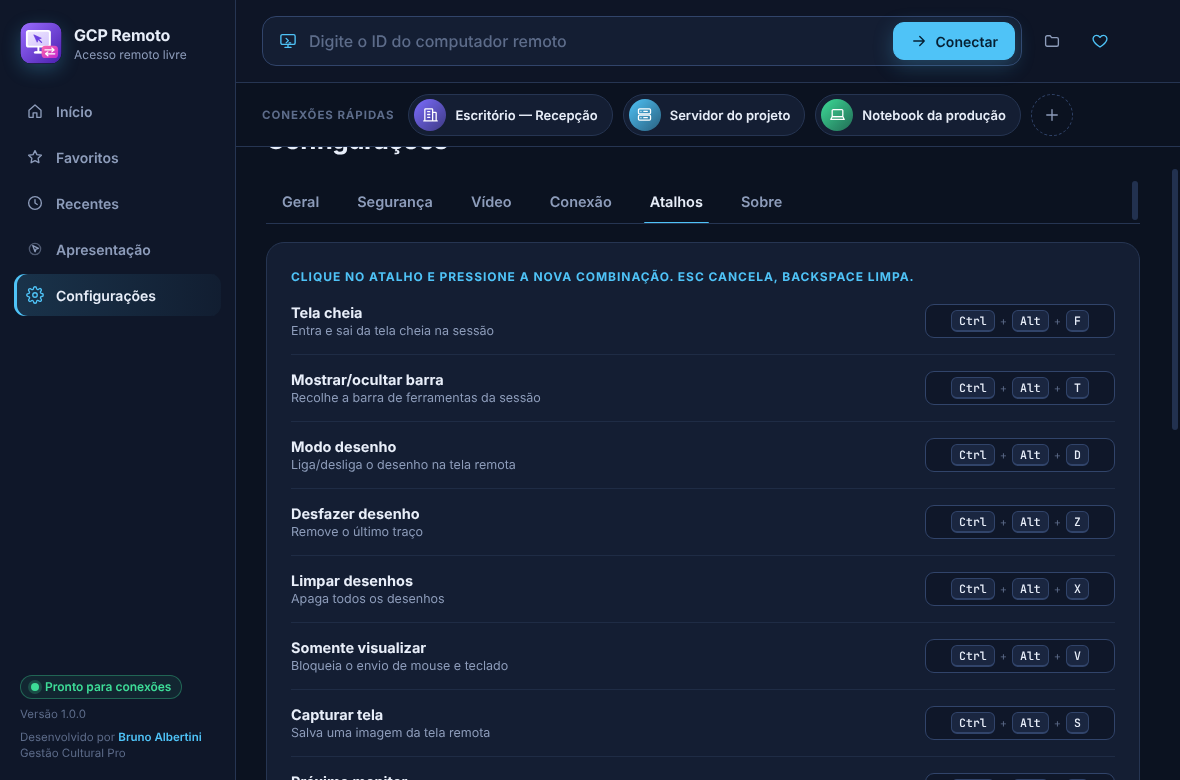
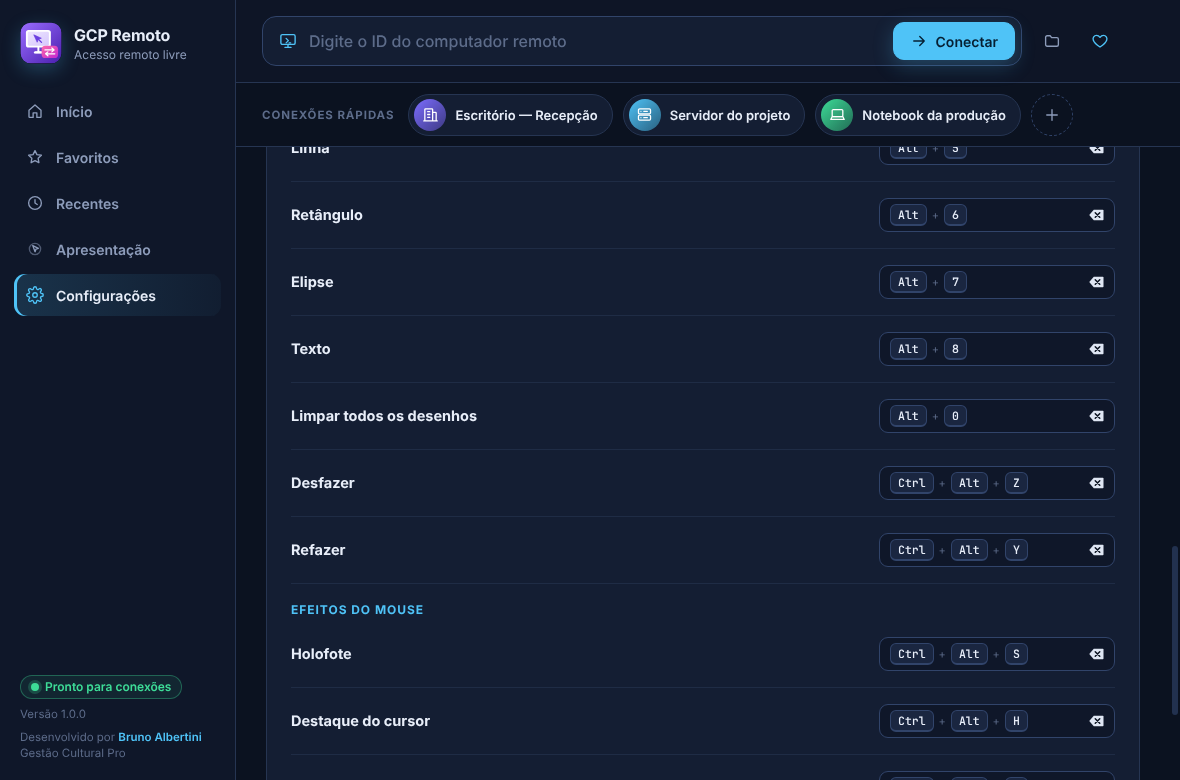
Atalhos: migrar padrões antigos para Alt+número e efeitos no padrão GCP

diff --git a/src/main/store.js b/src/main/store.js
@@ -112,7 +112,20 @@ class Store {
     if (!this.data.deviceId) this.data.deviceId = Store.newDeviceId();
     if (!this.data.security.permanentSalt) this.data.security.permanentSalt = crypto.randomBytes(16).toString('hex');
     if (!this.data.displayName) this.data.displayName = require('os').hostname();
+    this.migrateShortcuts();
     this.save();
+  }
+
+  // Versão 2 dos atalhos: ferramentas em Alt+número e efeitos no padrão GCP.
+  // Só troca atalhos que ainda estão no padrão antigo; os personalizados são mantidos.
+  migrateShortcuts() {
+    if (this.data.shortcutsVersion >= 2) return;
+    const OLD = { clearDrawings: 'Ctrl+Alt+X', screenshot: 'Ctrl+Alt+S', nextMonitor: 'Ctrl+Alt+M', chat: 'Ctrl+Alt+C', spotlight: 'Ctrl+Alt+L' };
+    const sc = this.data.shortcuts;
+    for (const k of Object.keys(DEFAULT_SHORTCUTS)) {
+      if (!(k in sc) || sc[k] === OLD[k]) sc[k] = DEFAULT_SHORTCUTS[k];
+    }
+    this.data.shortcutsVersion = 2;
   }
 
   static newDeviceId() {
